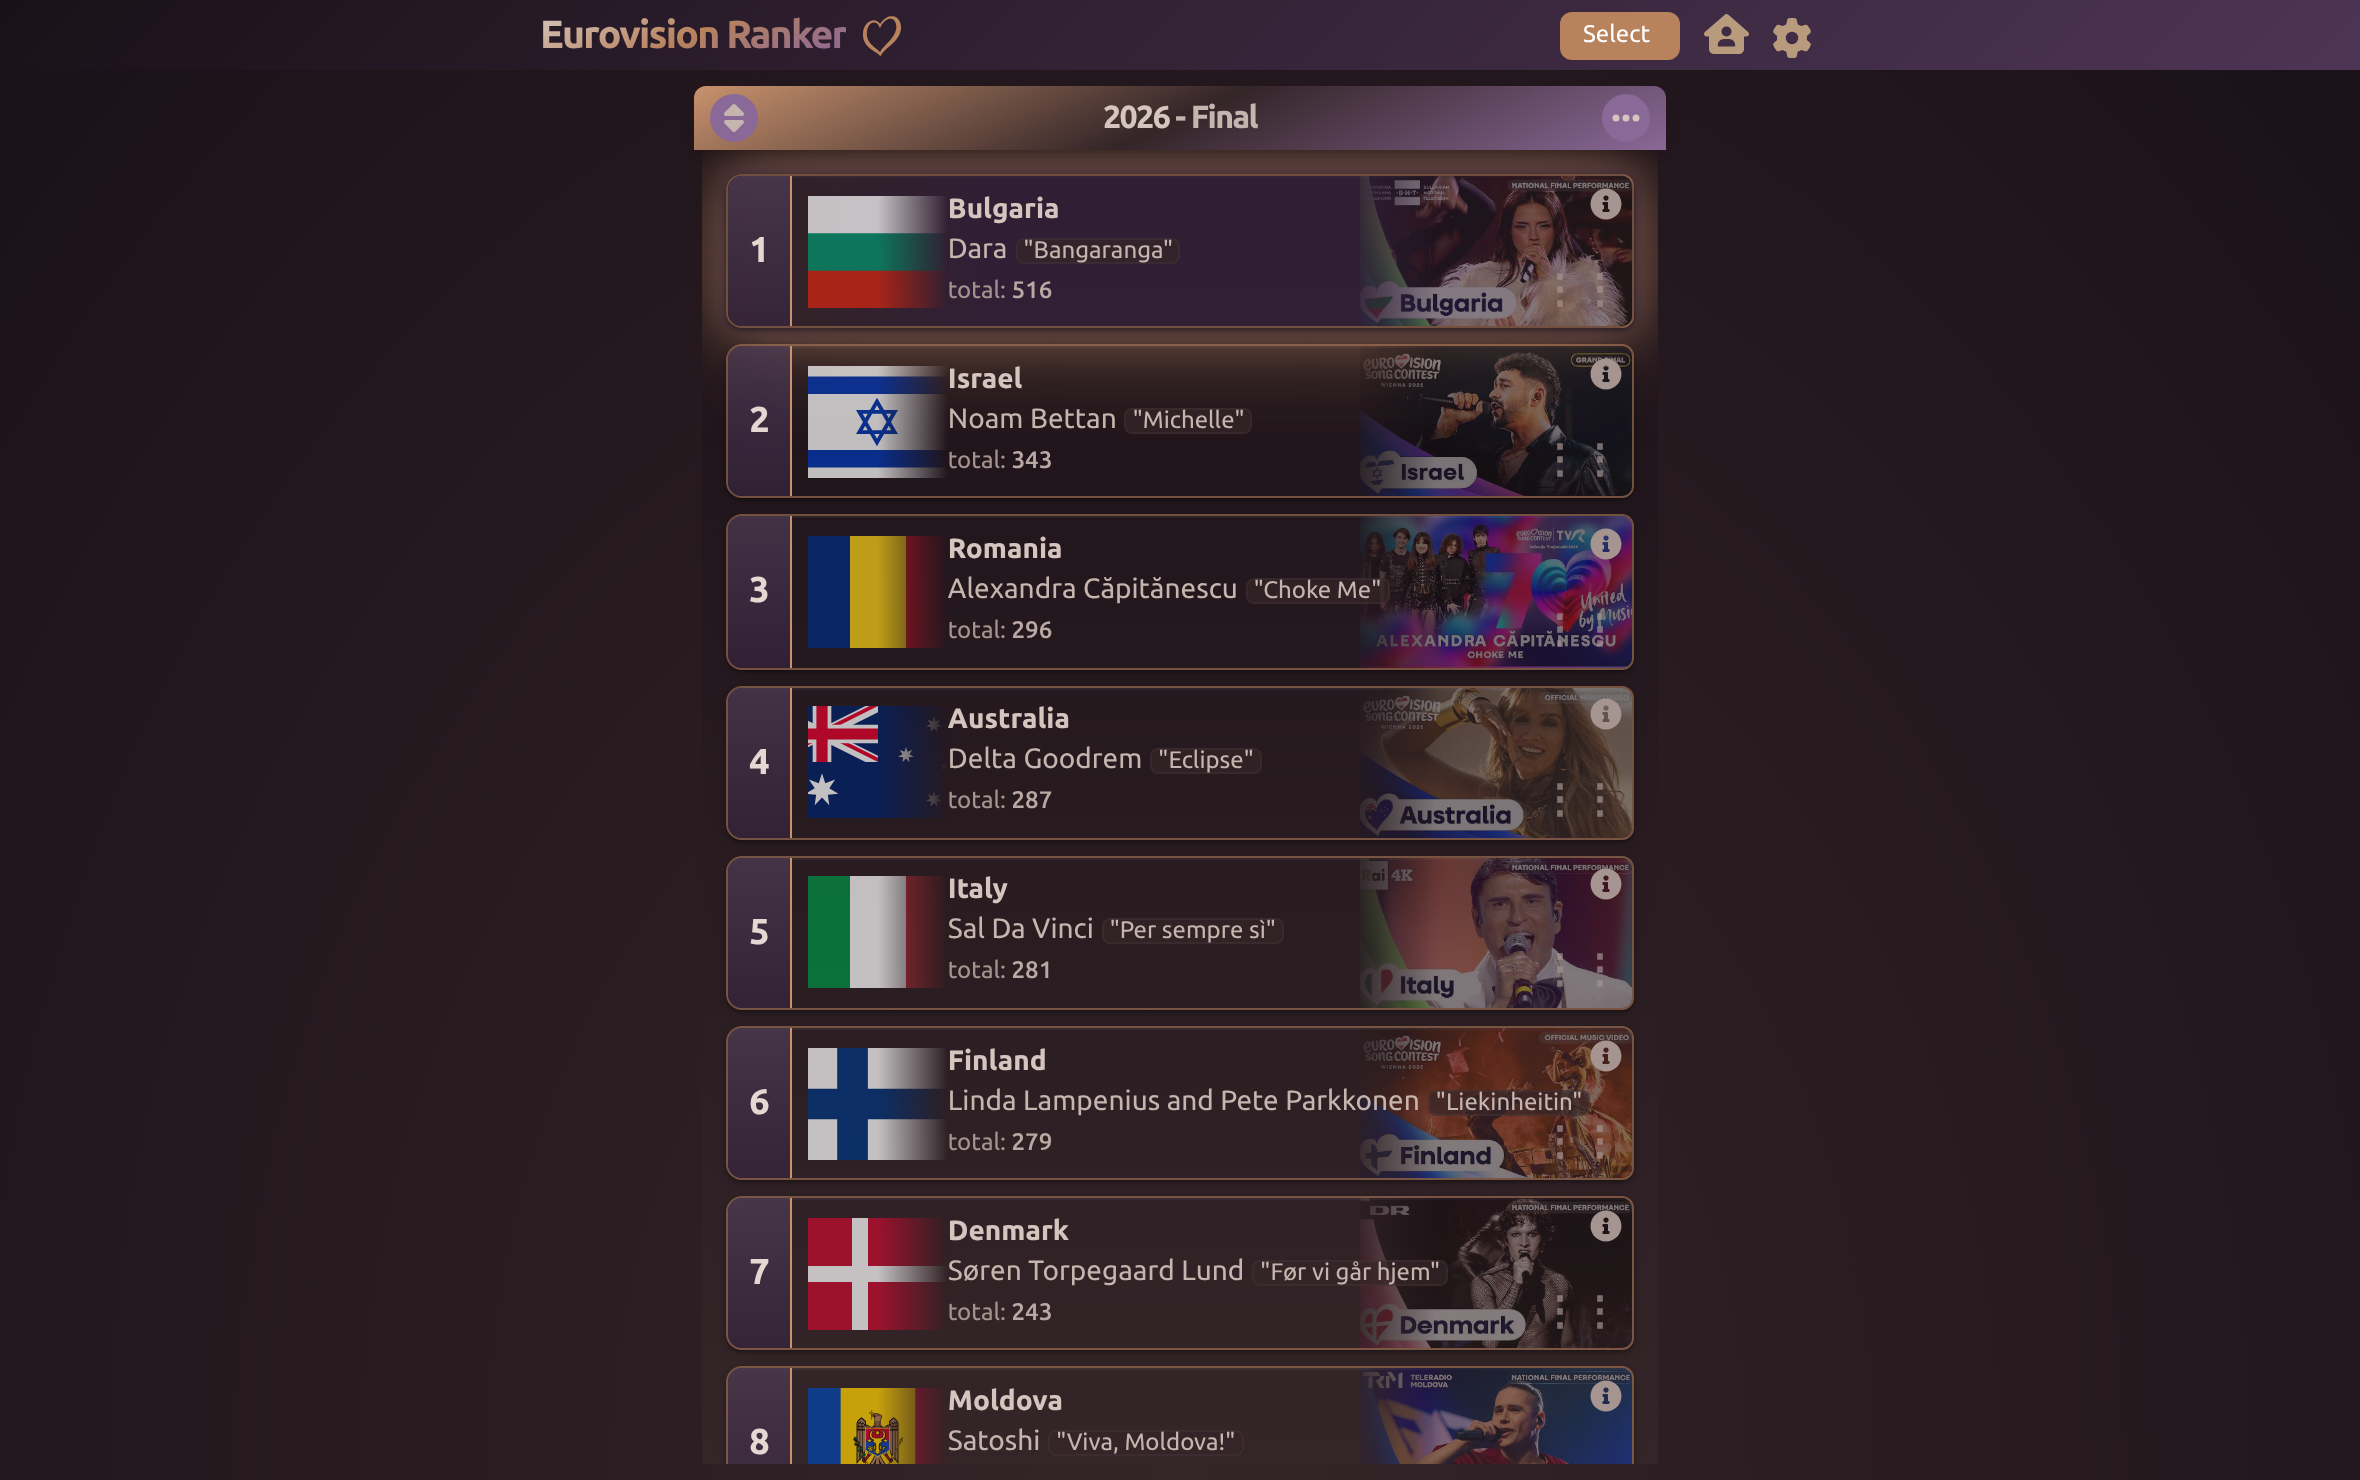
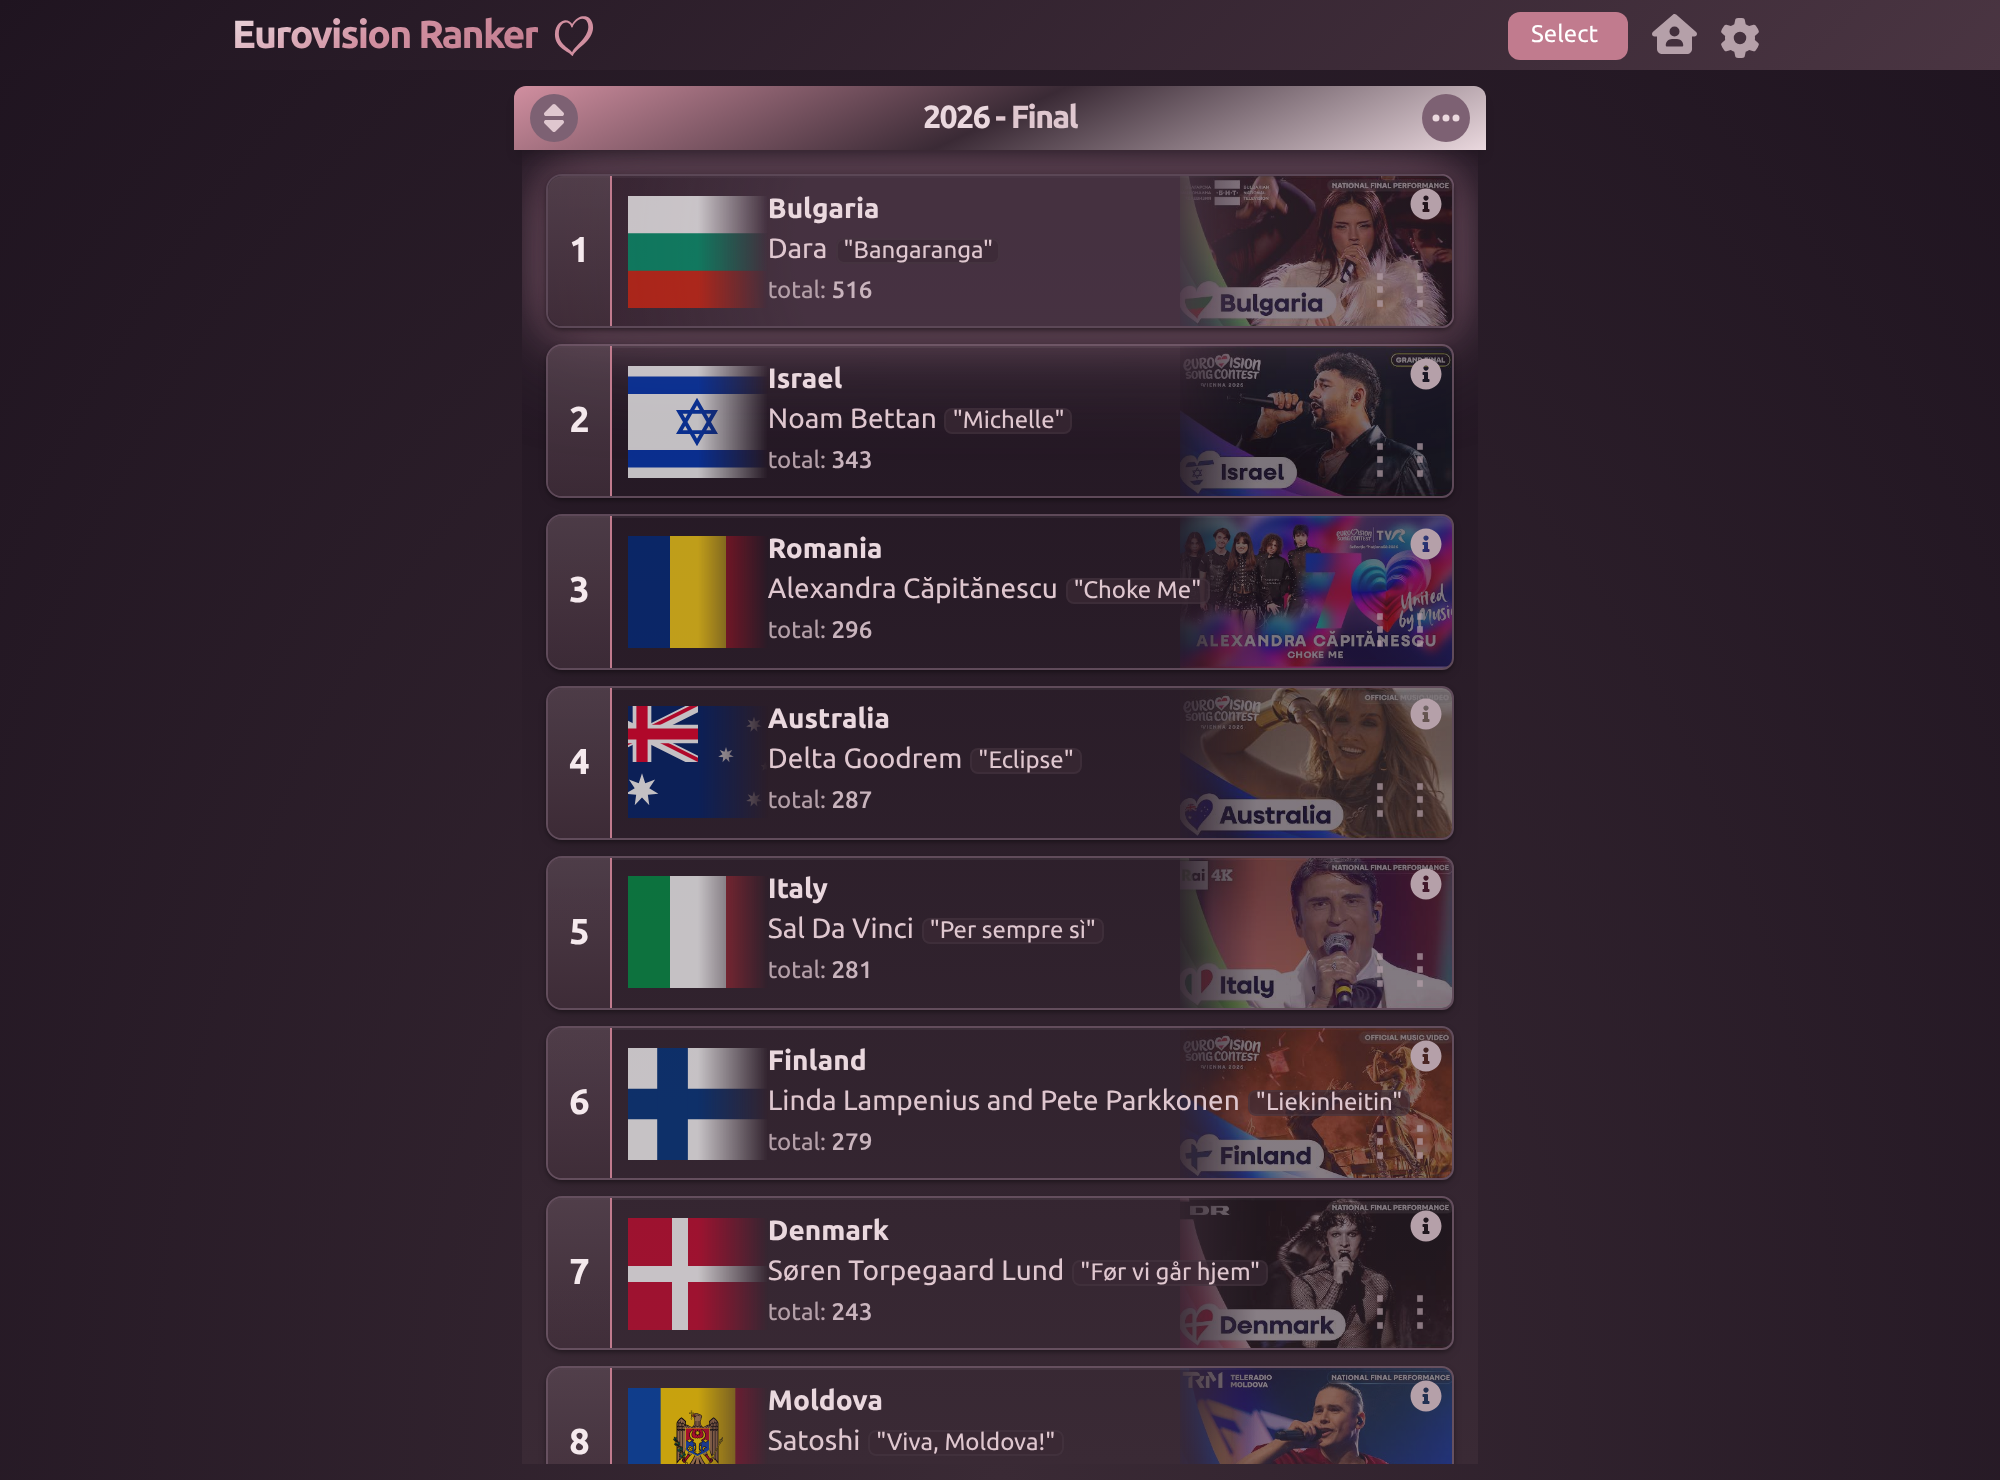
thumbs update and carousel loading

Changed region(s): [[0.124, 0.0, 0.899, 0.9946]]

diff --git a/src/components/ProjectCarousel.tsx b/src/components/ProjectCarousel.tsx
@@ -140,7 +140,7 @@ const BottomCardStrip: FC<{ tiles: string[]; onLayout?: (layout: StripLayout | n
             <img
               src={src}
               alt=""
-              loading="lazy"
+              decoding="async"
               className="h-full w-auto max-w-none"
             />
           </div>
@@ -392,12 +392,68 @@ const useMomentumScroll = (
   return stopRef;
 };
 
+// How many images the preloader fetches at once. Enough to keep the
+// connection busy without starving the rest of the page.
+const PRELOAD_CONCURRENCY = 4;
+
+// Fetch and decode every image the carousel will show, before it's needed,
+// so slides and strip tiles never pop in while they're on screen. Slides are
+// queued in carousel order (first slide first), each with its hero, then
+// its background, then its strip. The decoded images are held in a ref so
+// the browser keeps them warm for the component's lifetime.
+const usePreloadImages = (projects: ProjectItem[], backgroundImages: string[]) => {
+  const heldRef = useRef<HTMLImageElement[]>([]);
+
+  const urls: string[] = [];
+  const seen = new Set<string>();
+  const enqueue = (src: string | undefined) => {
+    if (src && !seen.has(src)) {
+      seen.add(src);
+      urls.push(src);
+    }
+  };
+  projects.forEach((project, index) => {
+    enqueue(project.imageUrl);
+    if (backgroundImages.length > 0) enqueue(backgroundImages[index % backgroundImages.length]);
+    project.gallery?.forEach(enqueue);
+  });
+  // Keyed on the URLs themselves, so a fresh-but-equal props array (like the
+  // `backgroundImages = []` default) doesn't restart the queue every render.
+  const urlsKey = urls.join('\n');
+
+  useEffect(() => {
+    const queue = urlsKey ? urlsKey.split('\n') : [];
+    let cancelled = false;
+    const held: HTMLImageElement[] = [];
+    heldRef.current = held;
+
+    const loadNext = (): Promise<void> => {
+      const src = queue.shift();
+      if (cancelled || !src) return Promise.resolve();
+      const img = new Image();
+      img.decoding = 'async';
+      img.src = src;
+      held.push(img);
+      // decode() resolves once the image is fetched and ready to paint;
+      // a failed image shouldn't stall the rest of the queue.
+      return img.decode().catch(() => {}).then(loadNext);
+    };
+
+    for (let i = 0; i < PRELOAD_CONCURRENCY; i++) loadNext();
+
+    return () => {
+      cancelled = true;
+    };
+  }, [urlsKey]);
+};
+
 interface ProjectCarouselProps {
   projects: ProjectItem[];
   backgroundImages?: string[]; // Optional background images for rotation
 }
 
 const ProjectCarousel: FC<ProjectCarouselProps> = ({ projects, backgroundImages = [] }) => {
+  usePreloadImages(projects, backgroundImages);
   const [activeIndex, setActiveIndex] = useState<number>(0);
   const [animating, setAnimating] = useState<boolean>(false);
   const [buttonsOverflow, setButtonsOverflow] = useState<boolean>(false);
